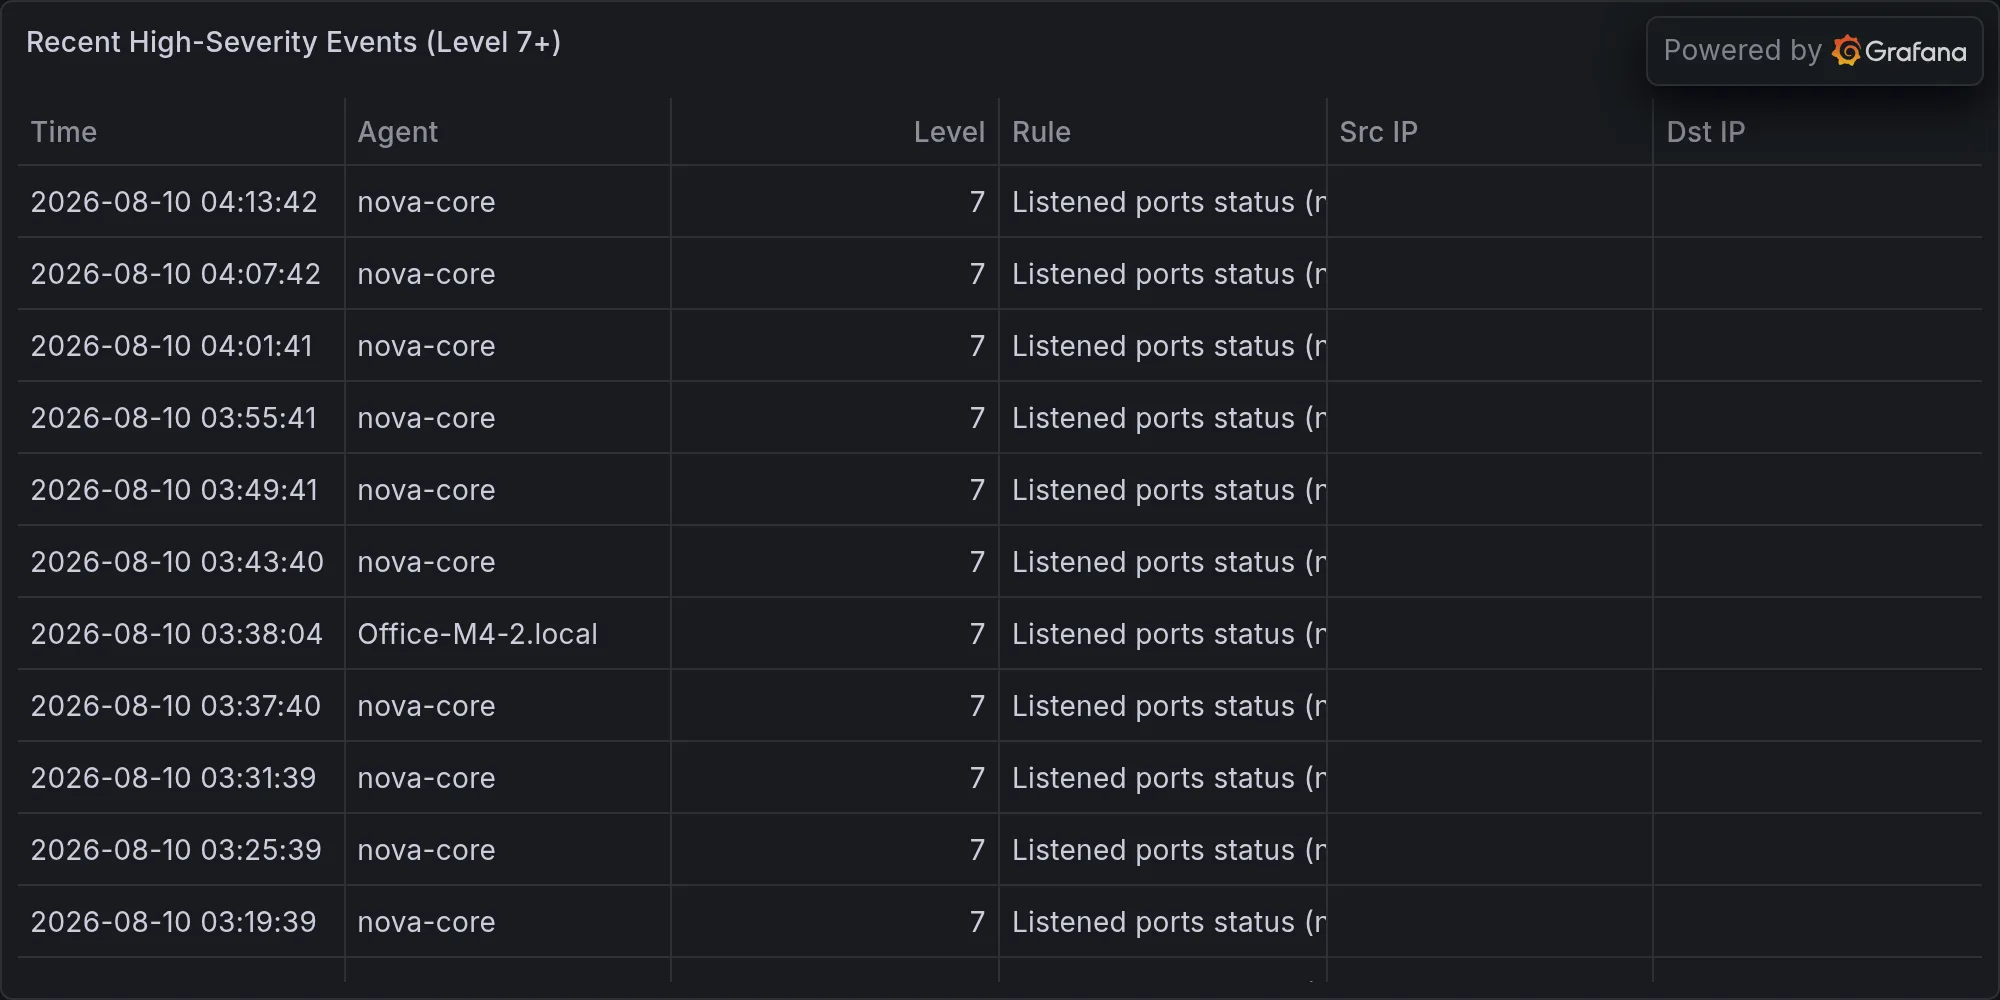
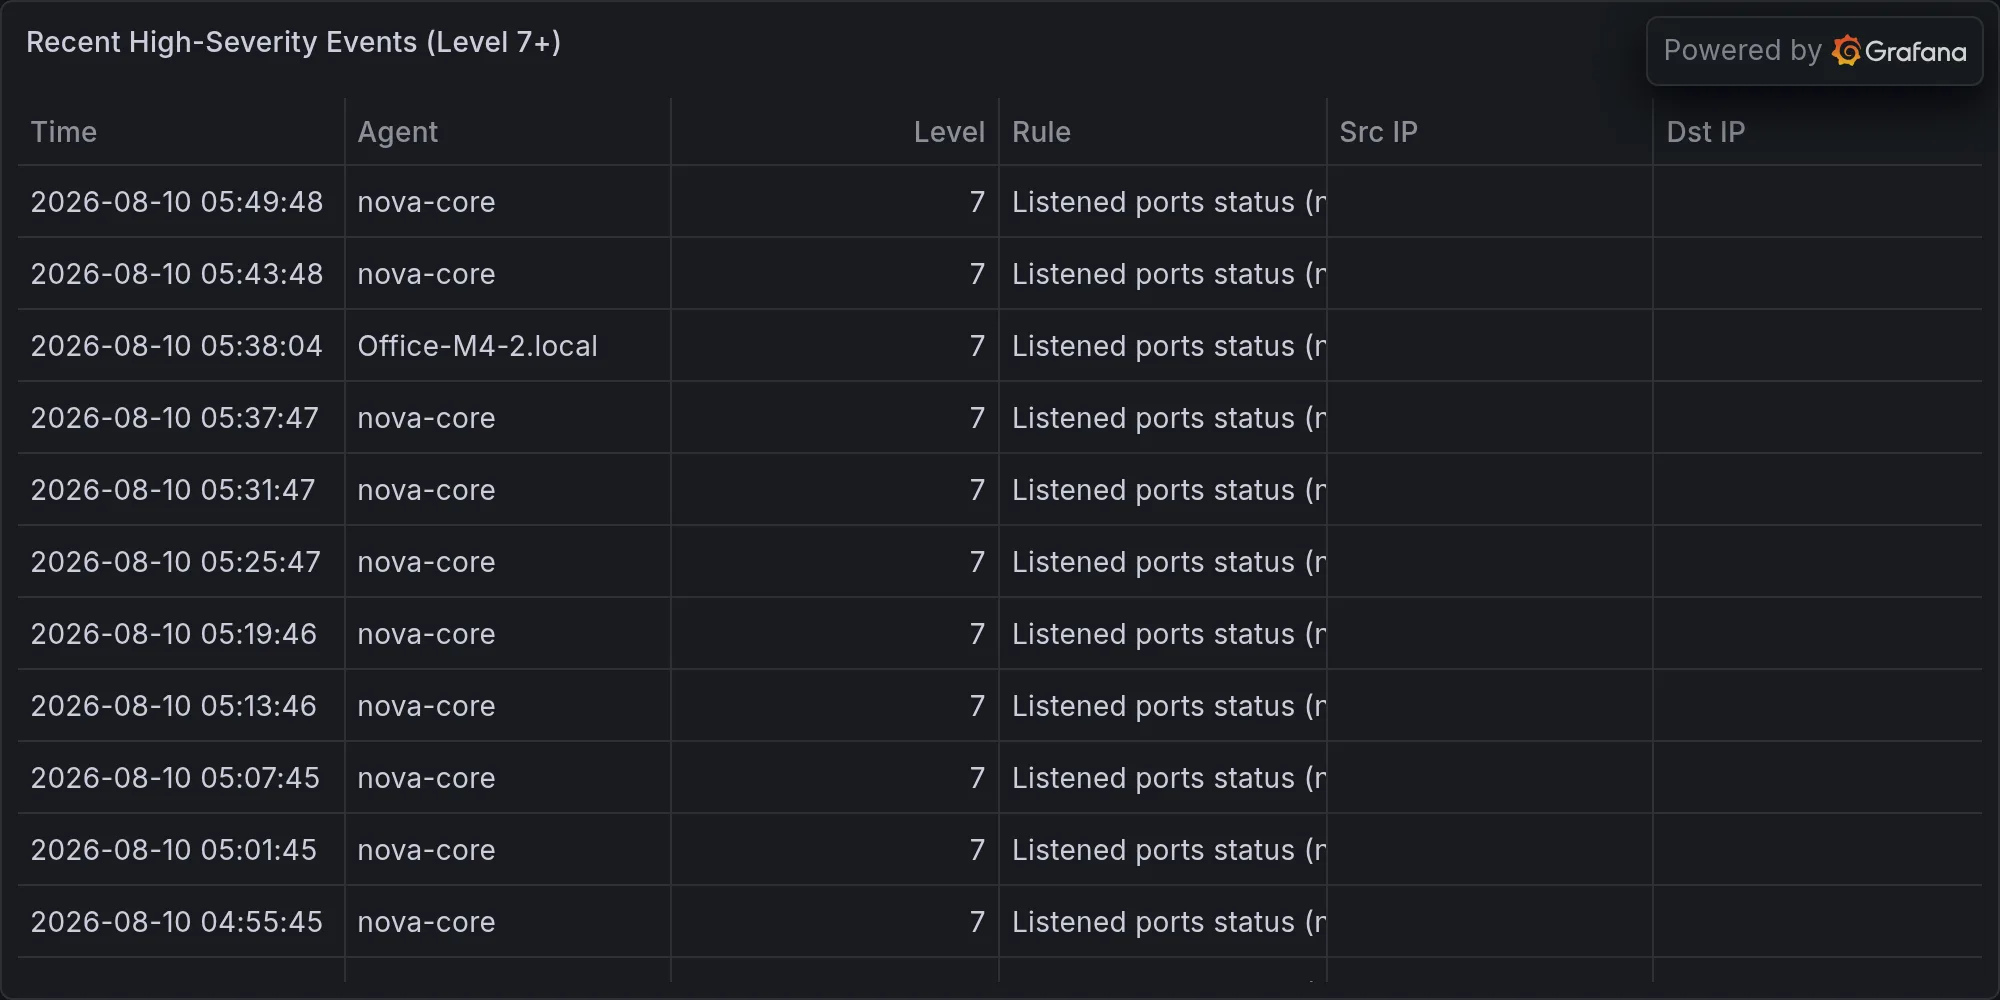
security: 2026-08-10 — **DEVELOPING — M7.4 Earthquake Colombia; Infrastru

diff --git a/content/operations/2026-08-10-developing-m7-4-earthquake-colombia-infrastructure-disinform.md b/content/operations/2026-08-10-developing-m7-4-earthquake-colombia-infrastructure-disinform.md
@@ -1,0 +1,47 @@
+---
+title: "🛡 **DEVELOPING — M7.4 Earthquake Colombia; Infrastructure & Disinformation Risk Profile Elevated**"
+date: 2026-08-10T05:51:46-07:00
+draft: false
+categories: ["operations"]
+tags: ["breaking-alert", "earthquake-m7-4-5-km-e-of-san-jos-del-pa", "security"]
+description: "BREAKING: Earthquake M7.4 — 5 km E of San José del Palmar, Colombia"
+cover:
+  image: "/images/operations/2026-08-10-developing-m7-4-earthquake-colombia-infrastructure-disinform.webp"
+  alt: "**DEVELOPING — M7.4 Earthquake Colombia; Infrastructure & Disinformation Risk Profile Elevated**"
+  relative: false
+---
+
+*Published Monday, August 10, 2026 at 05:51 AM PT*
+
+![**DEVELOPING — M7.4 Earthquake Colombia; Infrastructure & Disinformation Risk Profile Elevated**](/images/operations/2026-08-10-developing-m7-4-earthquake-colombia-infrastructure-disinform.webp)
+
+**BLUF:** M7.4 earthquake struck 5 km east of San José del Palmar, Colombia, at 107 km depth (coordinates 4.903°N, 76.189°W). No confirmed critical infrastructure compromise or cascade failures as of initial reporting. Security concern: recent Brazil emergency alert system abuse and documented scammer exploitation of prior regional quakes create elevated risk for coordinated disinformation, false emergency alerts, and supply-chain disruption during response. Recommend: monitor official Colombian emergency channels for integrity; flag unverified crisis alerts in media/social; coordinate with Colombia's political transition team (recent right-wing election shift) on continuity messaging.
+
+**DETAILS**
+- **Confirmed seismic event:** M7.4 magnitude, 107 km depth, 5 km E of San José del Palmar (Chocó Dept., Colombia). Timestamp: 2026-08-10. Shallow-to-moderate depth consistent with intraslab rupture in Nazca plate subduction zone.
+- **Infrastructure status:** No confirmed failure reports in initial period. Colombian seismic monitoring networks operational.
+- **Disinformation precursor pattern:** Brazil emergency warning system exploited for unauthorized nationwide alert (June 2026); documented scammer campaigns activated within hours of Venezuela/Ecuador quakes (2026); Colombian political environment unstable post-election (narrow right-wing victory). Risk: false "critical infrastructure down" claims may spread faster than official all-clear.
+- **Regional cascade risk:** Japan M7.1 earthquake (recent) coincided with active cyber-threat environment targeting critical infrastructure. No causal link confirmed, but temporal clustering noted in threat intel. Colombia's power, water, telecom systems should be monitored for opportunistic probing.
+
+**IMPACT**
+- **Geography:** Chocó Department (northwest Colombia, ~500k residents). Primary impact: Buenaventura port region (~400 km S), major Pacific terminus for Colombian trade. Secondary: coffee-growing regions (Eje Cafetero) ~200 km SE. Tertiary: Medellín infrastructure (~300 km E).
+- **Scope:** Critical infrastructure potentially affected: port operations, power distribution, communications backbone. Electoral/political sensitivity: new government coordination during crisis will test institutional resilience.
+- **Threat vectors:** Scammers posing as authorities; false emergency alerts on WhatsApp/Telegram; supply-chain disruption exploited for price manipulation.
+
+**RECOMMENDED ACTIONS**
+- **Immediate (0–4 hrs):** Verify Colombian Geological Service (USGS/INGEOMINAS) as authoritative source; flag unverified "critical infrastructure down" claims in social media as disinformation.
+- **Short-term (4–24 hrs):** Coordinate with Colombian Ministry of Communications on emergency alert authentication (SMS headers, official sender IDs). Recommend statement distinguishing scammer alerts from government messages.
+- **Monitoring:** Watch for cascading failures in port operations, power grid, or telecom; correlate with any cyber-incident reports. Track scammer activity on Spanish-language fraud forums.
+
+**SOURCES**
+- USGS earthquake bulletin (M7.4 Colombia, 2026-08-10)
+- Nova memory: Brazil emergency alert system abuse (June 2026), Venezuelan/Ecuador earthquake scammer campaigns (2026), Japan M7.1 infrastructure/cyber environment (June 2026)
+- Context: Colombia right-wing electoral shift and institutional stress during crisis response
+
+**STATUS:** DEVELOPING — monitoring Colombian emergency channels and regional infrastructure reports. Will upgrade to CONFIRMED IMPACT if port/power/telecom failures reported.
+
+---
+
+**Recent high-severity events at publish time:**
+
+![Recent high-severity events](/images/operations/2026-08-10-breaking-alert-posture.webp)
